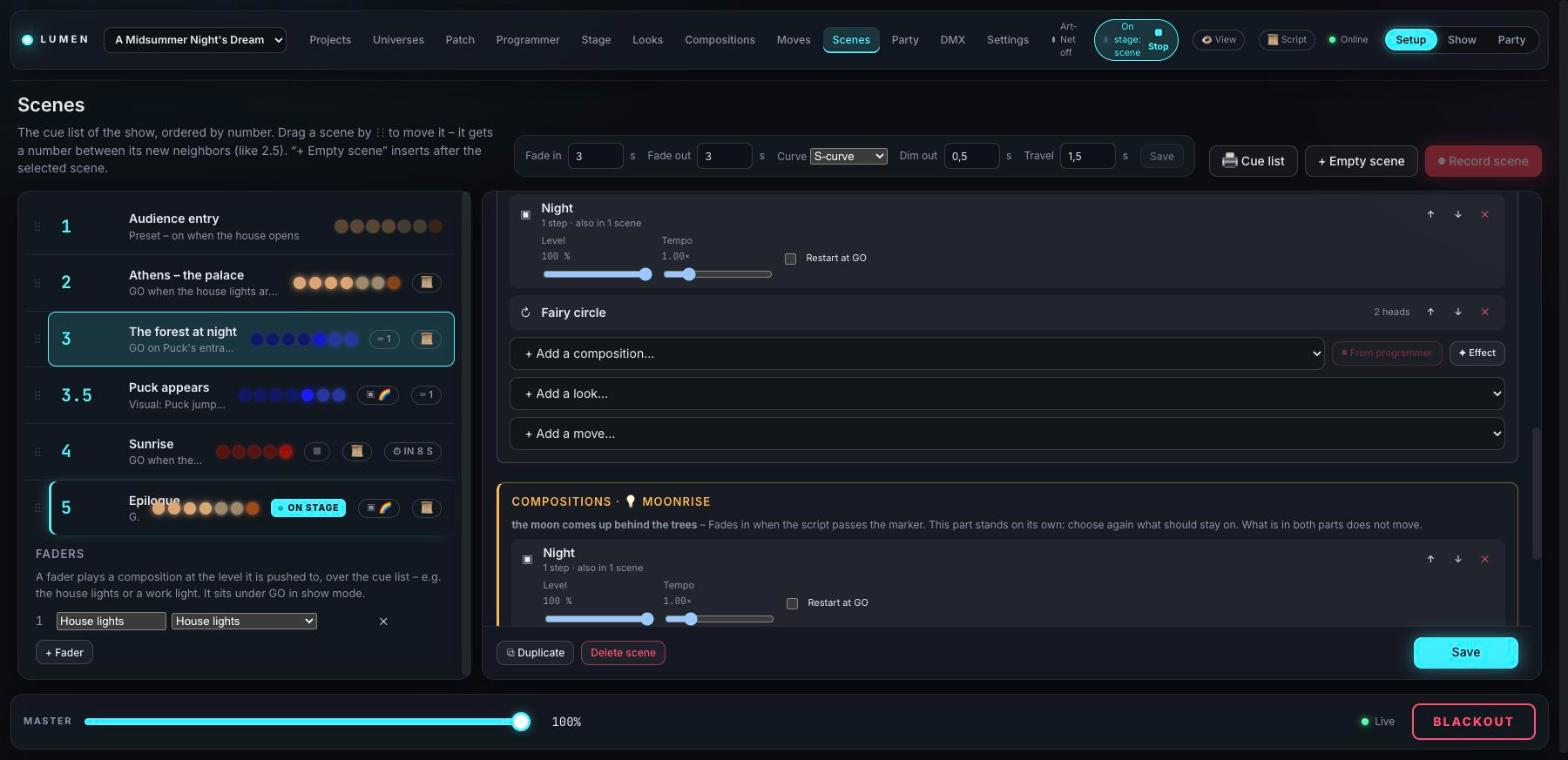
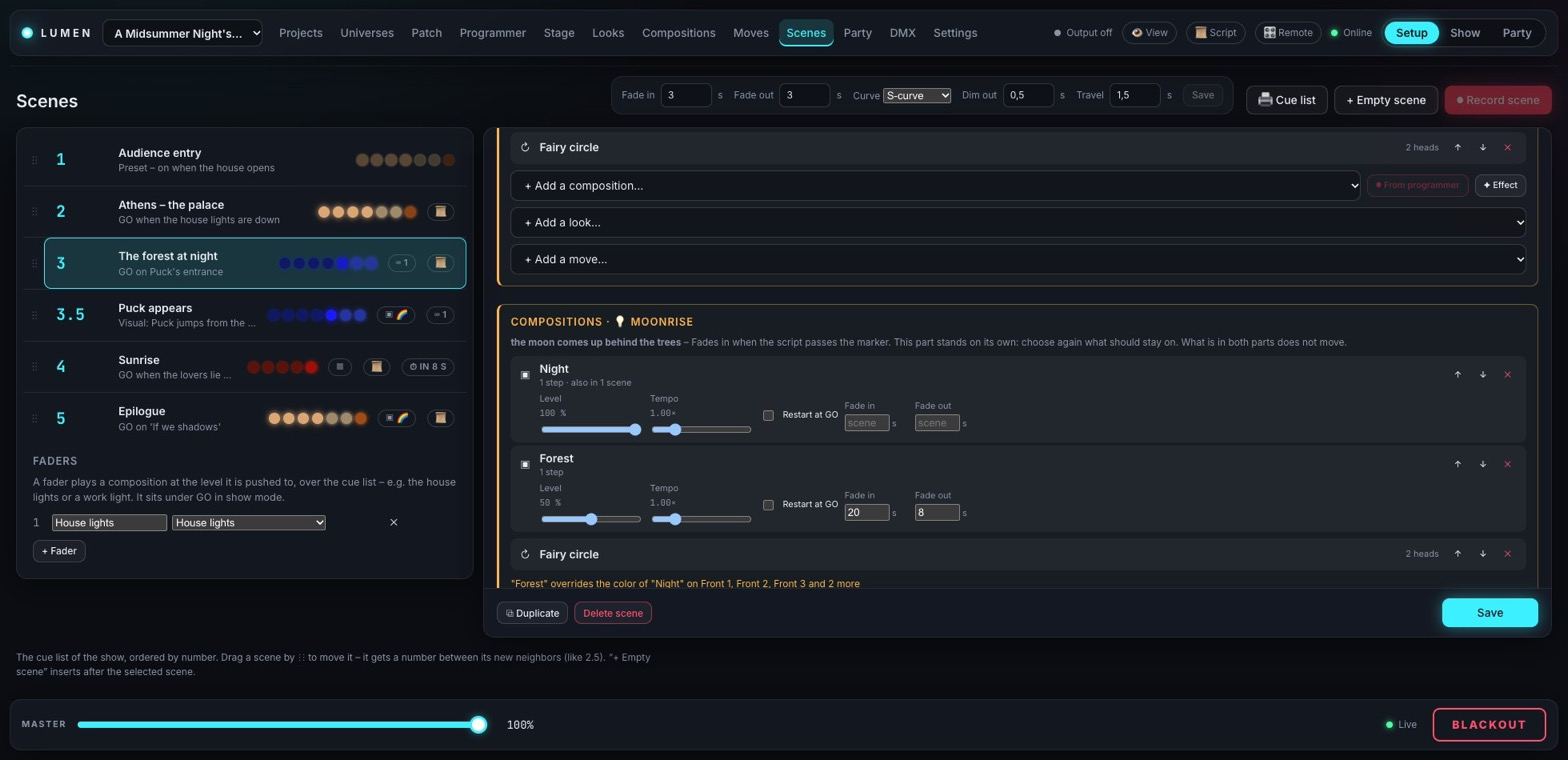
Guide: new screenshot of the scene light with fade times per composition

diff --git a/index.html b/index.html
@@ -860,8 +860,8 @@ cd lumen-ArtNet
 
     <h3>Light: compositions, looks, moves, light markers and keys</h3>
     <figure>
-      <img src="images/scene-compositions.jpg" width="1568" height="760" alt="Scene editor showing the compositions of the start part and the Moonrise light marker section" loading="lazy">
-      <figcaption>The start of scene 3 plays "Night" and the move "Fairy circle"; the part after the marker "Moonrise" has light of its own.</figcaption>
+      <img src="images/scene-compositions.jpg" width="1568" height="760" alt="Scene editor: the framed start part of scene 3 and the Moonrise light marker section, where Forest has its own fade times" loading="lazy">
+      <figcaption>The start of scene 3 plays "Night" and the move "Fairy circle"; after the marker "Moonrise" the forest creeps in over 20 s and fades out over 8 s, while "Night" uses the scene's times.</figcaption>
     </figure>
     <ul>
       <li>Add <strong>compositions</strong>, <strong>looks</strong> and <strong>moves</strong> to the scene. Per
